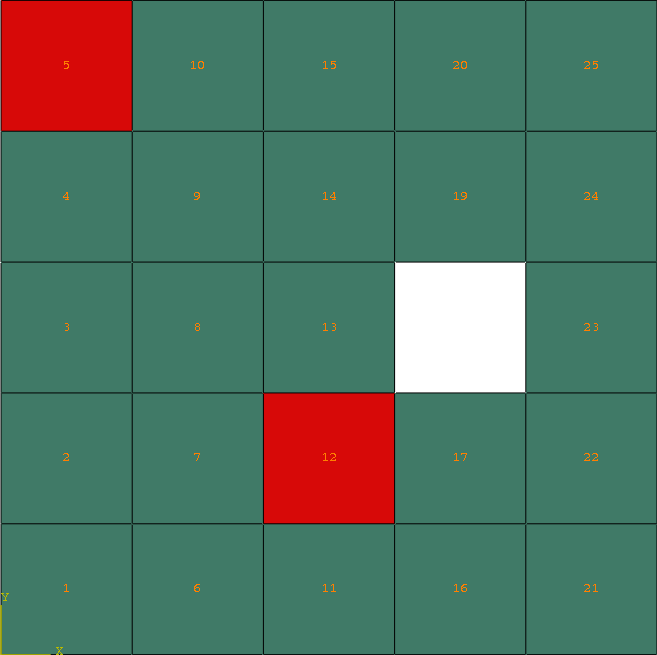
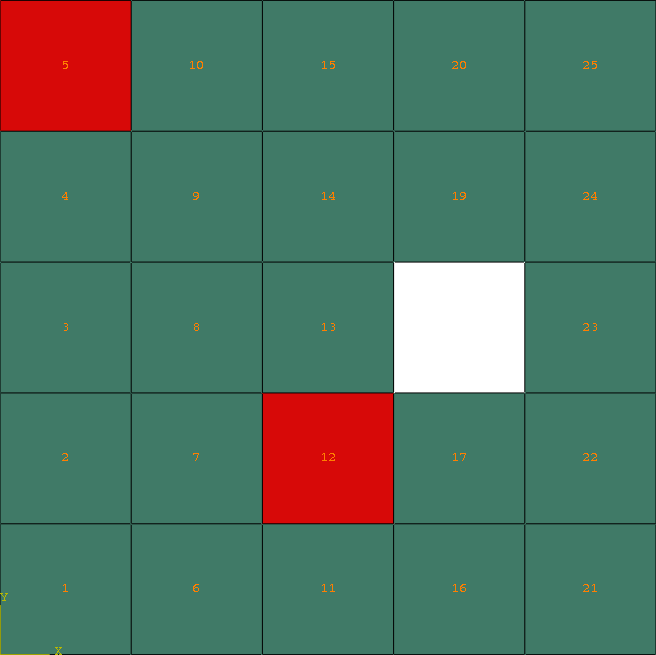
- added example 5

Changed region(s): [[0.1829, 0.0, 0.2134, 1.0], [0.3963, 0.9771, 0.4268, 1.0], [0.0, 0.8855, 0.0305, 0.916]]

diff --git a/examples/ex5_manual_manipulation_whole.py b/examples/ex5_manual_manipulation_whole.py
@@ -1,0 +1,25 @@
+"""Script for Example 5: Manual Manipulation of the Structure (Whole Array)"""
+
+from numpy import random
+from vcams.voxelpart import VoxelPart
+
+# Create the part.
+part = VoxelPart(size=(5, 5), base_material=1,
+                 voxel_size=(0.02, 0.02),
+                 name='Ex5 Manual Manipulation Whole',
+                 description='Example 5: A 5*5 2D part filled with all elements replaced with a random array.',
+                 log_debug=True)
+
+# Prepare the random number generator.
+rng = random.default_rng()
+# Create an array of random integers with the same size and dtype as part.data
+# and set the min and max values to 1 and 3, respectively.
+random_array = rng.integers(low=1, high=3, size=part.data.shape,
+                            dtype=part.data.dtype, endpoint=True)
+# Assign random_array to part.data, which replaces its contents.
+part.data = random_array
+
+# Output the part.
+part.output_abaqus_inp(file_name='ex5_manual_manipulation_whole',
+                       elem_type='CPE4R', dim='2D',
+                       material_elem_sets='Non-Empty')

diff --git a/docs/source/examples/example5.rst b/docs/source/examples/example5.rst
@@ -1,0 +1,47 @@
+Example 4: Manual Manipulation of the Structure (Whole Array)
+=============================================================
+
+This example illustrated manual modification of the *data* array of a VoxelPart instance.
+Unlike :doc:`Example 4 <example4>`, here we change the entire *data* array.
+
+First, a complete 2D part with a shape of 5×5 voxels is created
+with a base material of 1 and a voxel size of 0.02 units in all directions.
+The parameter *log_debug* is set to *True* for demonstration purposes.
+
+Afterwards, the an array of random integers between 1 and 3 is created.
+To do this, the random module of NumPy must be imported::
+
+   from numpy import random
+
+The random number generator can then be constructed::
+
+   rng = random.default_rng()
+
+With the random number generator prepared, we can create an array of random numbers.
+We must specify the size, highest and lowest numbers, and the *dtype* of the random array.
+These can be extracted from the part's *data* array.
+We will then assign the created array to part.data, thus replacing its previous contents::
+
+   random_array = rng.integers(low=1, high=3, size=part.data.shape,
+                            dtype=part.data.dtype, endpoint=True)
+   part.data = random_array
+
+Finally, The part is output to abaqus in *2D* mode with *CPE4R* elements.
+The *Non-Empty* elements are requested to be written to the output.
+
+The code can be found in the *examples* folder of the main repository. It is also included below:
+
+.. literalinclude:: /../../examples/ex5_manual_manipulation_whole.py
+
+The final model looks like :numref:`ex5_manual_manipulation_whole`.
+Note that elements in different sets are shown in different colors.
+Also, because of the random nature of this example, each model will be different.
+
+.. figure:: /images/ex5_manual_manipulation_whole.png
+   :name: ex5_manual_manipulation_whole
+   :align: center
+   :alt: Final model of Example 5.
+         Element sets corresponding to MAT-1, MAT-2 and MAT-3 are shown in green, beige, and red, respectively.
+
+   Final model of Example 5.
+   Element sets corresponding to MAT-1, MAT-2 and MAT-3 are shown in green, beige, and red, respectively.

diff --git a/docs/source/examples/example4.rst b/docs/source/examples/example4.rst
@@ -1,7 +1,10 @@
 Example 4: Manual Manipulation of the Structure (Single Elements)
 =================================================================
 
-In this example, a complete 2D part with a shape of 5×5 voxels is created
+This example illustrated manual modification of the *data* array of a VoxelPart instance.
+Unlike :doc:`Example 5 <example5>`, here we manipulate the elements one by one.
+
+First, , a complete 2D part with a shape of 5×5 voxels is created
 with a base material of 1 and a voxel size of 0.02 units in all directions.
 The parameter *log_debug* is set to *True* for demonstration purposes.
 

diff --git a/docs/source/examples/index.rst b/docs/source/examples/index.rst
@@ -13,3 +13,4 @@ After defining each example problem, modeling and analysis is performed using bo
    example1
    example2
    example4
+   example5
